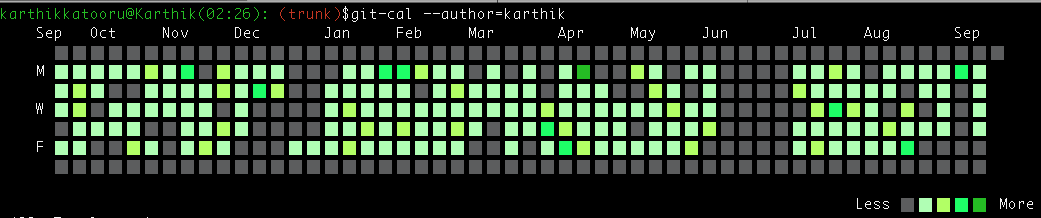
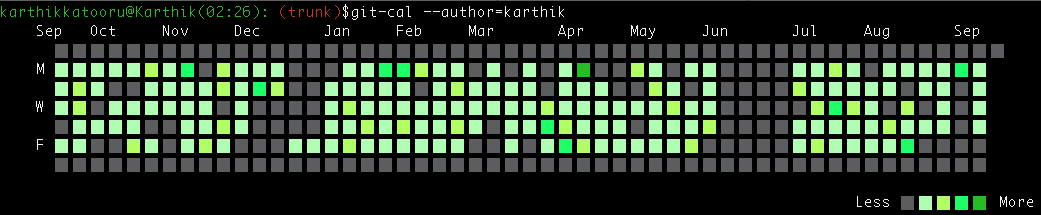
cleaned output screenshots and extended alt text

diff --git a/README.md b/README.md
@@ -2,8 +2,8 @@ git-cal
 =======
 
 ### Description
-![blackt](https://raw.github.com/k4rthik/git-cal/master/screenshots/img1.png ) 
-![white](https://raw.github.com/k4rthik/git-cal/master/screenshots/img2.png)
+![screenshot with black theme](https://raw.github.com/k4rthik/git-cal/master/screenshots/img1.png) 
+![screenshot with white theme](https://raw.github.com/k4rthik/git-cal/master/screenshots/img2.png)
 on your terminal
 
 * git-cal is a simple script to view commits calendar (similar to github contributions calendar) on command line
